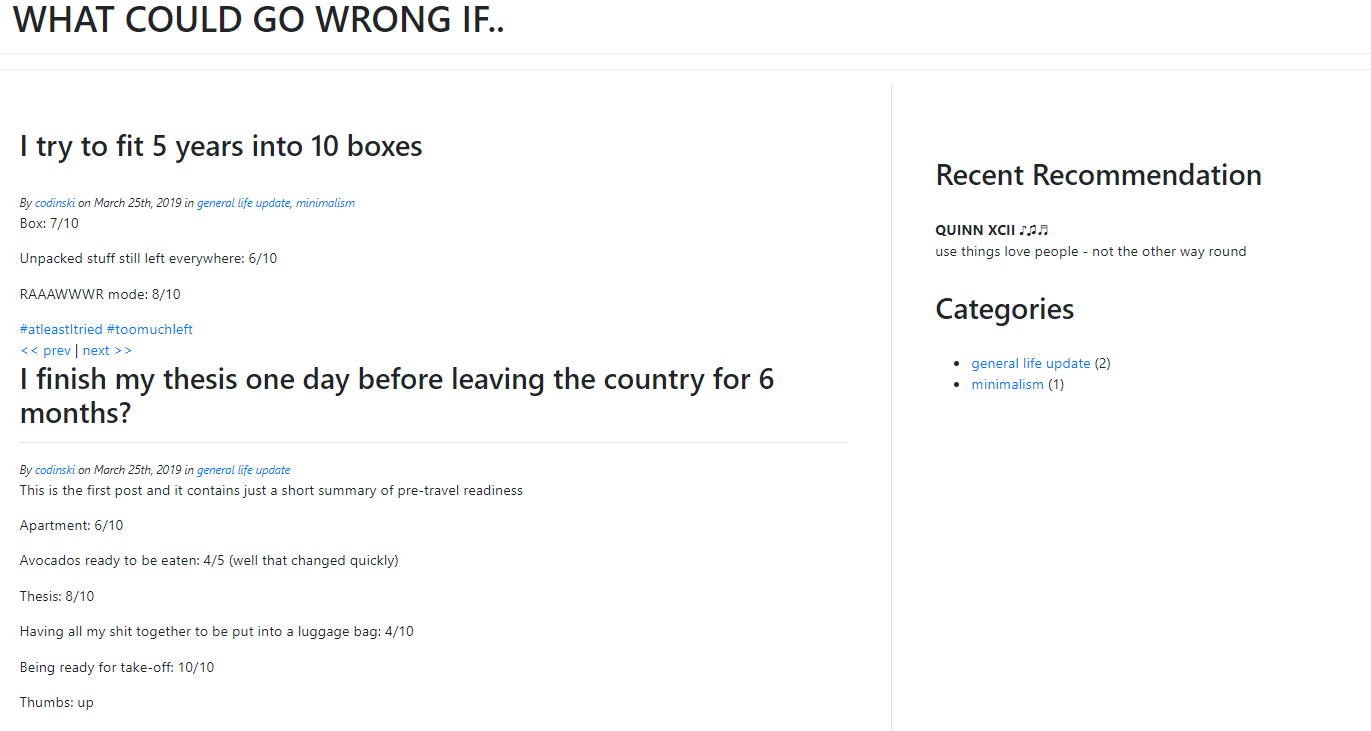
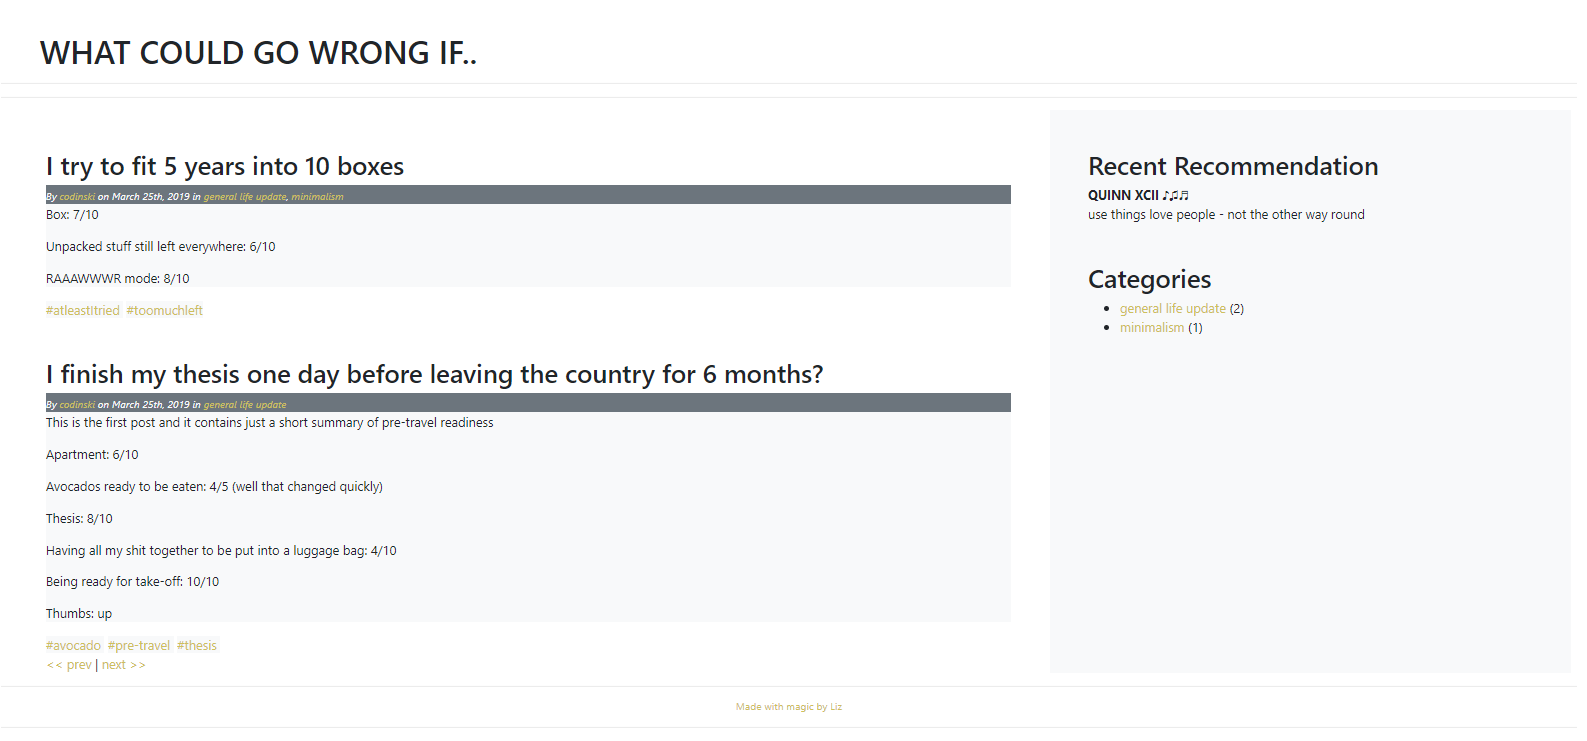
styles added

diff --git a/style.css b/style.css
@@ -16,6 +16,21 @@ body{
 }
 */
 
-.widget-title{
-  margin: 2rem 0;
-}
+/**
+* overwrite Bootstrap 4 classes
+*
+*/
+
+
+  a {
+    color: #cec05b!important;
+  }
+
+  a:hover {
+    color: #827727!important;
+    text-decoration: none;
+  }
+  a.lighter:hover {
+    color: #dad084!important;
+    text-decoration: none;
+  }

diff --git a/index.php b/index.php
@@ -20,24 +20,27 @@ get_header(); ?>
       if ( have_posts() ) : while ( have_posts() ) : the_post();
           ?>
           <h2 class="pt-5"> <?php the_title(); ?> </h2>
-          <hr  />
-          <i><small>By <?php the_author_posts_link(); ?> on <?php the_time('F jS, Y'); ?>  in <?php the_category(', '); ?> <?php edit_post_link(__('{Edit}'), ''); ?></small></i>
-          <?php the_content(); ?>
+          <div class="bg-secondary text-light">
+						<i><small>By <?php the_author_posts_link(); ?> on <?php the_time('F jS, Y'); ?>  in <?php the_category(', '); ?> <?php edit_post_link(__('{Edit}'), ''); ?></small></i>
+					</div>
+					<div class="bg-light">
+						<?php the_content(); ?>
+					</div>
           <?php if( $tags = get_the_tags() ) {
             foreach( $tags as $tag ) {
                 $sep = ( $tag === end( $tags ) ) ? '' : ', ';
-                echo '<a href="' . get_term_link( $tag, $tag->taxonomy ) . '">#' . $tag->name . ' </a>';
+                echo '<a href="' . get_term_link( $tag, $tag->taxonomy ) . '" class="bg-light mr-1">#' . $tag->name . ' </a>';
             }
-          }?>
-        <br />
-        <a href="<?php echo esc_url( get_permalink( get_previous_post()->ID ) ); ?>"><< prev </a>
-        |
-        <a href="<?php echo esc_url( get_permalink( get_next_post()->ID ) ); ?>">next >> </a>
-      <?php endwhile;
+          }
+				 endwhile;
       else :
           _e( 'Sorry, nothing to see here. Mind your own business, bro!', 'textdomain' );
       endif;
       ?>
+			<br />
+			<a href="<?php echo esc_url( get_permalink( get_previous_post()->ID ) ); ?>"><< prev </a>
+			|
+			<a href="<?php echo esc_url( get_permalink( get_next_post()->ID ) ); ?>">next >> </a>
     </div>
     <?php get_sidebar(); ?>
   </div>

diff --git a/functions.php b/functions.php
@@ -1,4 +1,5 @@
-<?php /**
+<?php
+/**
  * Registers a widget area.
  *
  */
@@ -10,11 +11,34 @@ function codinski_widgets_init() {
 			'description'   => __( 'Add widgets here to appear in your sidebar.', 'codinski' ),
 			'before_widget' => '<section id="%1$s" class="widget %2$s">',
 			'after_widget'  => '</section>',
-			'before_title'  => '<h2 class="widget-title">',
+			'before_title'  => '<h2 class="pt-5">',
 			'after_title'   => '</h2>',
 		)
 	);
 }
 
 add_action( 'widgets_init', 'codinski_widgets_init' );
+
+
+/**
+ * Add the custom css class (bootstrap 4 link/text color) to the output of the_author_posts_link()
+ *
+*/
+add_filter( 'the_author_posts_link', function( $link )
+{
+    return str_replace( 'rel="author"', 'rel="author" class="lighter"', $link );
+});
+
+/**
+ * Add the custom css class (bootstrap 4 link/text color) to the output of the_category( ',')
+ *
+*/
+function add_class_to_category( $thelist, $separator, $parents){
+    $class_to_add = 'lighter';
+    return str_replace('<a href="',  '<a class="'. $class_to_add. '" href="', $thelist);
+}
+
+add_filter('the_category', __NAMESPACE__ . '\\add_class_to_category',10,3);
+
+
 ?>

diff --git a/header.php b/header.php
@@ -17,13 +17,16 @@
 	<?php if ( is_singular() && pings_open( get_queried_object() ) ) : ?>
 	<link rel="pingback" href="<?php echo esc_url( get_bloginfo( 'pingback_url' ) ); ?>">
 	<?php endif; ?>
+	<link rel="icon" href="<?php echo esc_url( get_stylesheet_directory_uri() ); ?>/img/favicon.png" type="image/x-icon" />
+  <link rel="shortcut icon" href="<?php echo esc_url( get_stylesheet_directory_uri() ); ?>/img/favicon.png" type="image/x-icon" />
   <link rel="stylesheet" type="text/css" href="https://stackpath.bootstrapcdn.com/bootstrap/4.3.1/css/bootstrap.min.css"  />
   <link rel="stylesheet" type="text/css" href="<?php bloginfo("template_directory"); ?>/style.css" />
 	<?php wp_head(); ?>
 </head>
 <body>
-  <div class="pl-5 text-uppercase">
-    <h1><?php bloginfo( 'name' ); ?></h1>
-  </div>
-  <hr />
-  <hr />
+	<div class="container-fluid">
+		<div class="pl-5 pt-5 text-uppercase">
+	    <h1><?php bloginfo( 'name' ); ?></h1>
+	  </div>
+	  <hr />
+	  <hr />

diff --git a/footer.php b/footer.php
@@ -8,13 +8,13 @@
  * @subpackage codinski
  */
 ?>
-    <hr  />
     <hr />
-    <div class="text-center small">
-  		<a href="<?php echo esc_url( __( 'https://codinski.club/', 'codinski' ) ); ?>" target="_blank">
-  			<?php printf( __( 'Made with magic by %s', 'codinski' ), 'Liz' ); ?>
-  		</a>
-  	</div>
+      <div class="text-center small">
+    		<a href="<?php echo esc_url( __( 'https://codinski.club/', 'codinski' ) ); ?>" target="_blank">
+    			<?php printf( __( 'Made with magic by %s', 'codinski' ), 'Liz' ); ?>
+    		</a>
+    	</div>
+    <hr />
   </div> <!-- close .container-fluid -->
 </body>
 </html>

diff --git a/sidebar.php b/sidebar.php
@@ -8,7 +8,7 @@
 ?>
 
 <?php if ( is_active_sidebar( 'sidebar-1' ) ) : ?>
-	<div class="col p-5 border-left bg-light">
+	<div class="col px-5  mt-5 mt-xl-0 bg-light">
 		<div>
 			<?php dynamic_sidebar( 'sidebar-1' ); ?>
 		</div>
